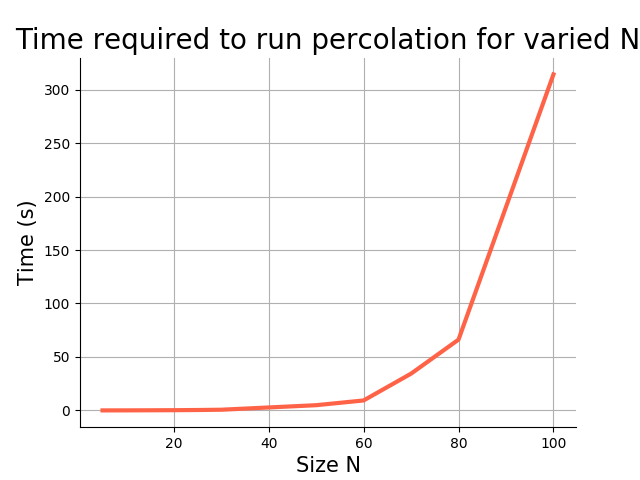
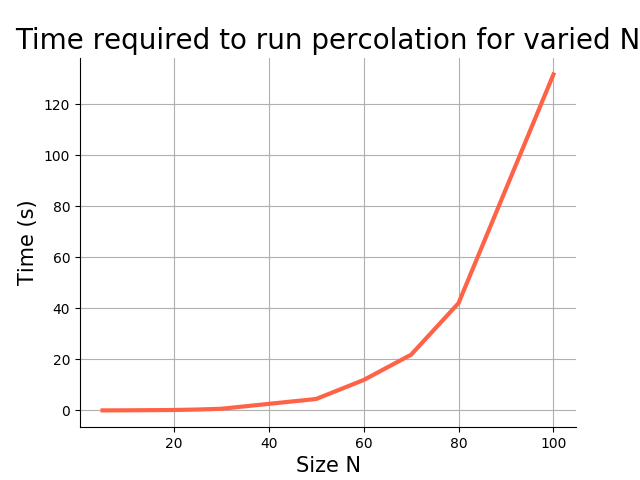
Corrected bugs and added checker for the random placement
Worked with Tahoe on improving the code. Corrected bugs that resulted
in pointless work and added a checked for the occupied positions.
Corrections sped up the code significantly. While it is still O(n^2) it
is much faster

Changed region(s): [[0.0625, 0.1562, 0.9062, 0.875], [0.0625, 0.5, 0.125, 0.5625], [0.0625, 0.2812, 0.125, 0.3438]]

diff --git a/Percolation/percolationClusterLabeling.py b/Percolation/percolationClusterLabeling.py
@@ -43,7 +43,7 @@ def relabel(matrix, currentClusterNumber, adjacentNumber, row, col, N):
         matrix[matrix==adjacentNumber]=currentClusterNumber #use built in numpy to relabel
     else:
         matrix[matrix==currentClusterNumber]=adjacentNumber
-    checkAround(matrix, matrix[row][col], row, col, N)
+    matrix=checkAround(matrix, matrix[row][col], row, col, N)
     return matrix
 
 #Function check around the point for neighbors. If found some up/below/left/right it calls the relabel()
@@ -55,7 +55,7 @@ def checkAround(matrix, clusterNumber, row, col, N):
             matrix=relabel(matrix, clusterNumber,matrix[row-1][col], row, col, N)
     if row+1<N:
         if matrix[row+1][col]!=0 and matrix[row+1][col]!=clusterNumber:
-            relabel(matrix, clusterNumber,matrix[row+1][col], row, col, N)
+            matrix=relabel(matrix, clusterNumber,matrix[row+1][col], row, col, N)
     if col-1>=0:
         if matrix[row][col-1]!=0 and matrix[row][col-1]!=clusterNumber:
             matrix=relabel(matrix, clusterNumber,matrix[row][col-1], row, col, N)  
@@ -64,12 +64,18 @@ def checkAround(matrix, clusterNumber, row, col, N):
             matrix=relabel(matrix, clusterNumber,matrix[row][col+1], row, col, N)    
     return matrix
 
-#Random placement of values. Calls the CheckAround function once the value is placed
-# Keeps track of the number we are placing by increasing it every time by 1.
-def randomPlacement(matrix, clusterNumber, N):
+def generateRandomPosition(N):
     random.seed() #seed random number generator
     row=int(random.random()*N) #select random row and column for placement
     col=int(random.random()*N)
+    return row, col
+
+#Random placement of values. Calls the CheckAround function once the value is placed
+# Keeps track of the number we are placing by increasing it every time by 1.
+def randomPlacement(matrix, clusterNumber, N):
+    row, col=generateRandomPosition(N)
+    while matrix[row][col]!=0:
+        row, col=generateRandomPosition(N)
     matrix[row][col]=clusterNumber #place number
     matrix=checkAround(matrix, clusterNumber, row, col, N) #check around for neighbors
     return matrix, clusterNumber+1

diff --git a/Percolation/runner.py b/Percolation/runner.py
@@ -36,6 +36,8 @@ for N in Nvalues:
     
         ## IMPORTANT: to save GIF parse TRUE, BUT need player AND takes long
         value, matrix=mainFunction(N, False) #call the main function. Does everything
+        if N>30:
+            print('Finished for run',i,'for matrix', N)
         sumPvalues+=value
     print('Still working, found the p values for matrix of size ', N) #update for the user
     #now we have pvalues summer 'runs' times
